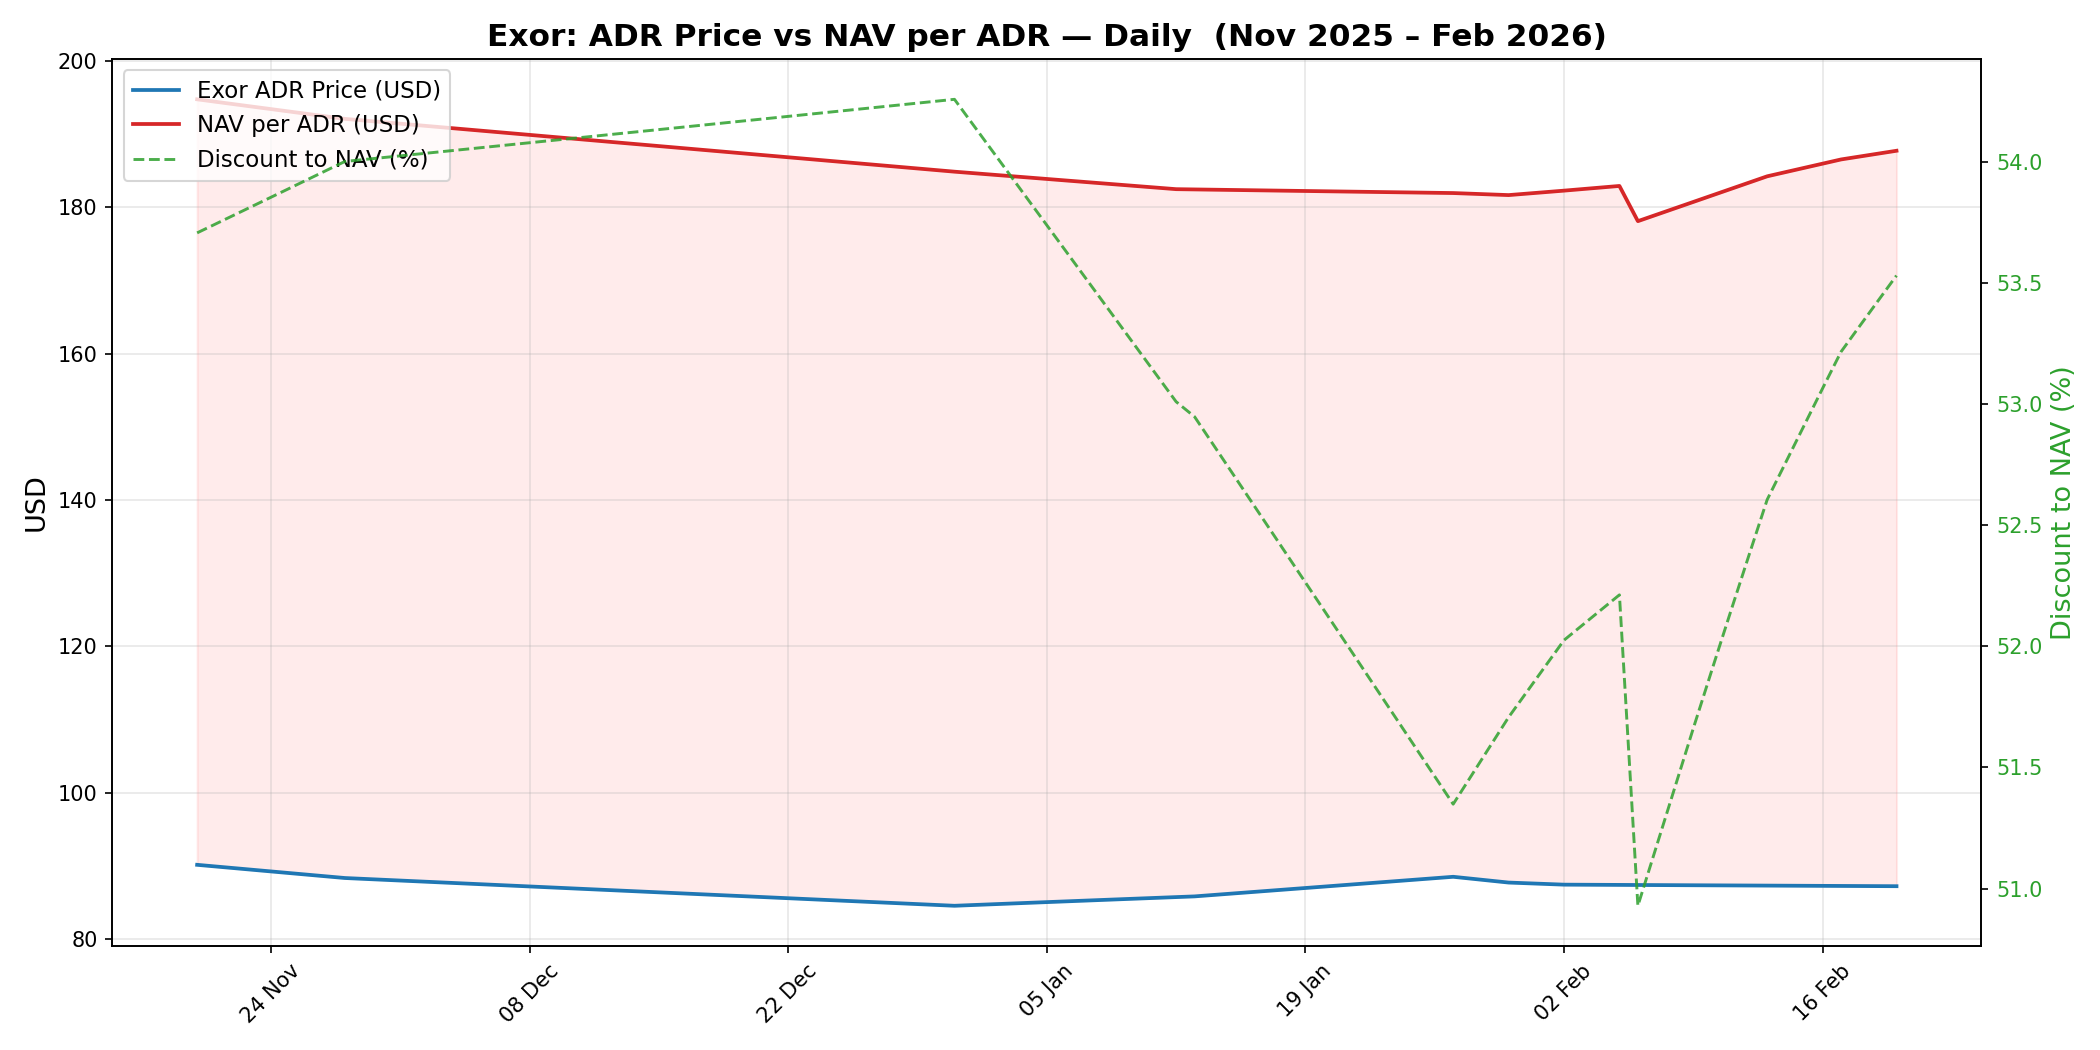
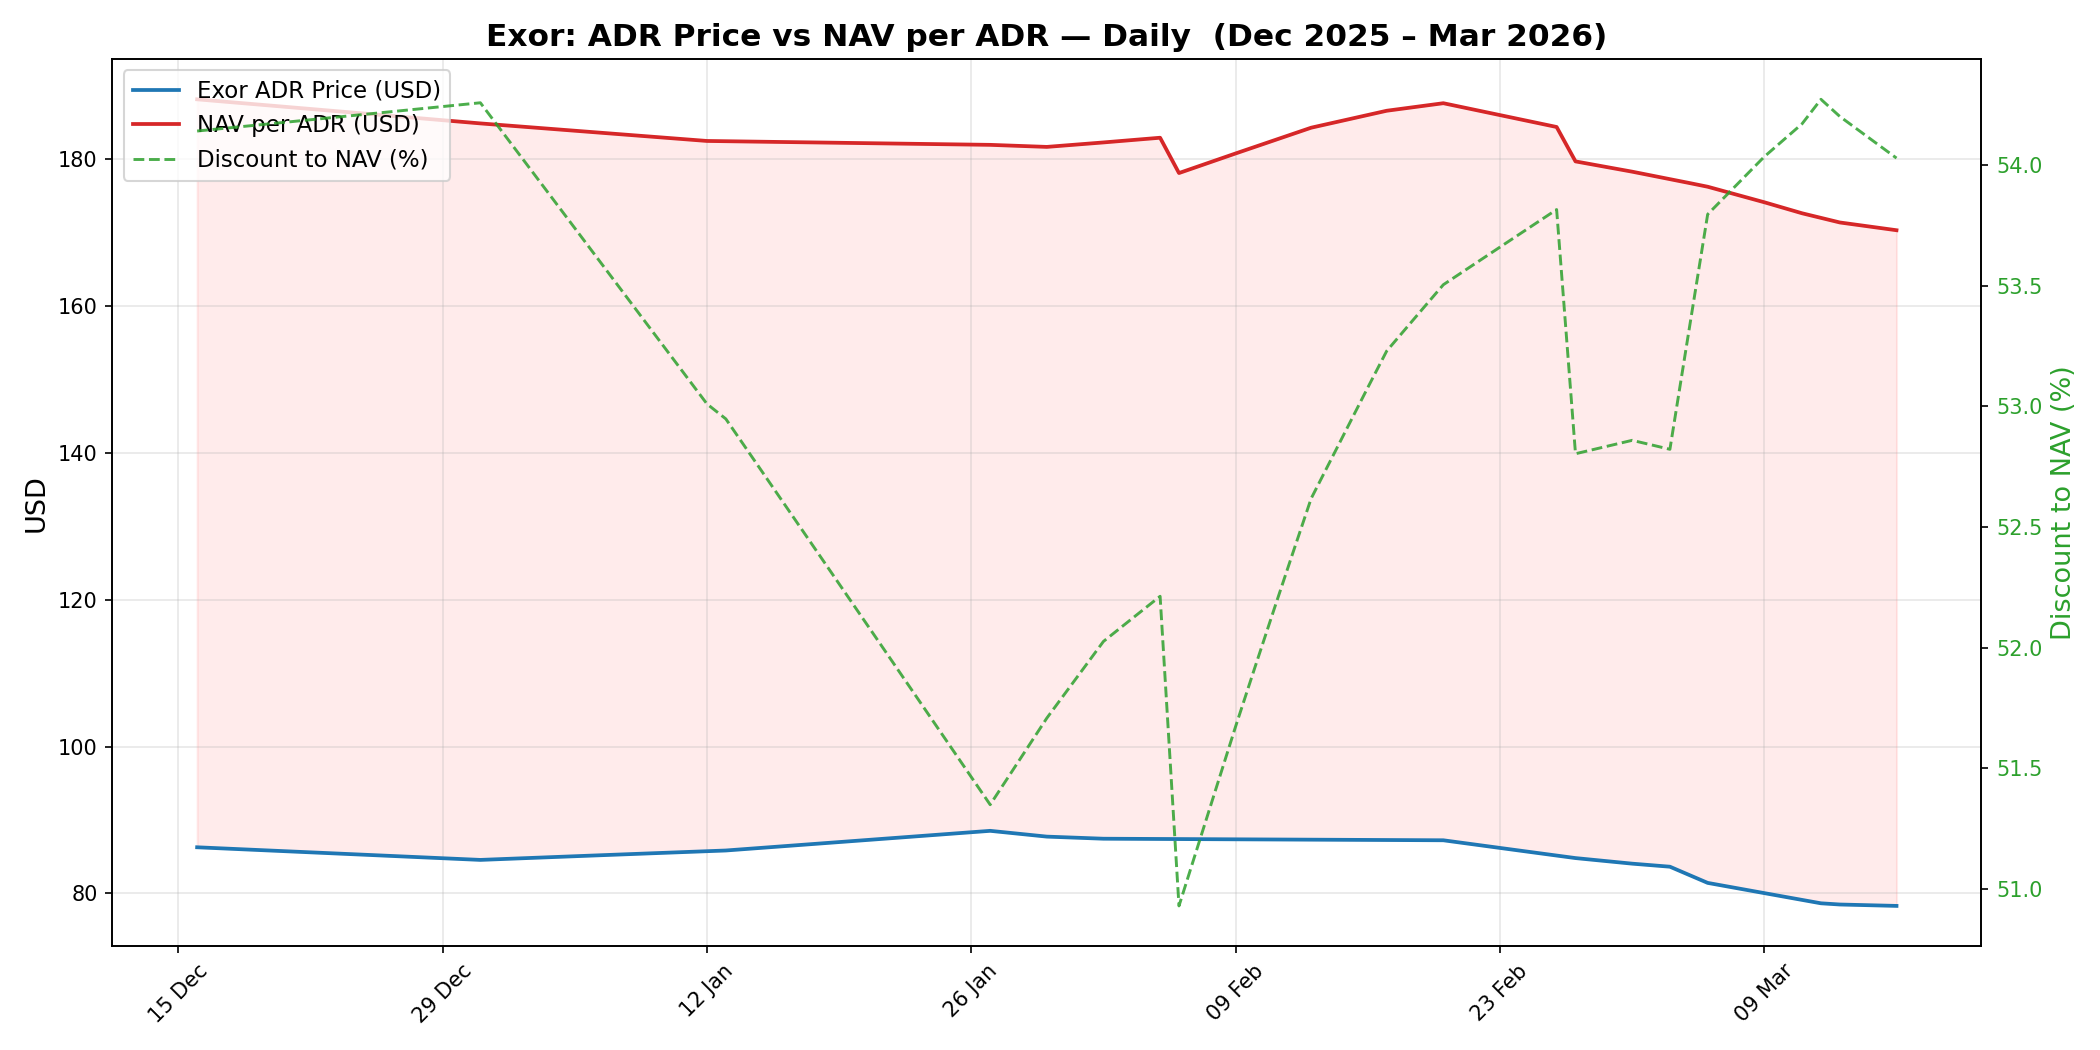
Update all charts with data through March 16, 2026
Extended price series for all holdings (RACE, STLA, PHG, CNH, IVG.MI,
JUVE.MI, EXO.AS, EUR/USD) from Feb 20 to Mar 16, 2026. Key moves:
- STLA crashed ~24% on Feb 27 after $26B write-down, now at $6.50
- RACE declined to ~$332, EXO.AS fell to €68.20
- EUR/USD weakened to 1.148
- Discount to NAV widened to ~54%

https://claude.ai/code/session_011nmT8G6RcPr3Kt8iyNHA7R

diff --git a/exor_holdings_chart.py b/exor_holdings_chart.py
@@ -90,7 +90,8 @@ else:
         ("2025-06-30", 500.0), ("2025-07-25", 518.0), ("2025-07-31", 510.0),
         ("2025-08-29", 478.0), ("2025-09-30", 458.0), ("2025-10-31", 418.0),
         ("2025-11-28", 388.0), ("2025-12-31", 348.0), ("2026-01-30", 335.0),
-        ("2026-02-20", 375.0),
+        ("2026-02-20", 375.0), ("2026-02-28", 360.0), ("2026-03-06", 345.0),
+        ("2026-03-13", 334.0), ("2026-03-16", 332.0),
     ]
 
     # ── STLA (Stellantis) — NYSE, USD ───────────────────────────────────
@@ -105,7 +106,8 @@ else:
         ("2025-08-29", 12.80), ("2025-09-30", 13.00), ("2025-10-31", 13.50),
         ("2025-11-28", 14.00), ("2025-12-31", 14.20), ("2026-01-30", 10.80),
         ("2026-02-05", 9.54),  ("2026-02-06", 7.03),  ("2026-02-13", 7.75),
-        ("2026-02-20", 7.51),
+        ("2026-02-20", 7.51),  ("2026-02-26", 7.80),  ("2026-02-27", 5.95),
+        ("2026-03-06", 6.80),  ("2026-03-13", 6.50),  ("2026-03-16", 6.50),
     ]
 
     # ── PHG (Philips) — NYSE, USD ───────────────────────────────────────
@@ -118,7 +120,8 @@ else:
         ("2025-05-30", 27.00), ("2025-06-30", 28.50), ("2025-07-31", 30.50),
         ("2025-08-29", 28.50), ("2025-09-30", 26.50), ("2025-10-31", 24.00),
         ("2025-11-28", 22.00), ("2025-12-31", 23.10), ("2026-01-30", 27.50),
-        ("2026-02-17", 31.17),
+        ("2026-02-17", 31.17), ("2026-02-28", 30.50), ("2026-03-09", 29.40),
+        ("2026-03-11", 28.80), ("2026-03-16", 28.00),
     ]
 
     # ── CNH (CNH Industrial) — NYSE, USD ────────────────────────────────
@@ -131,7 +134,8 @@ else:
         ("2025-05-30", 10.50), ("2025-06-30", 11.20), ("2025-07-31", 11.80),
         ("2025-08-29", 12.00), ("2025-09-30", 12.20), ("2025-10-31", 12.50),
         ("2025-11-28", 11.00), ("2025-12-31", 10.50), ("2026-01-12", 10.26),
-        ("2026-02-20", 13.05),
+        ("2026-02-20", 13.05), ("2026-02-28", 12.00), ("2026-03-09", 11.00),
+        ("2026-03-16", 10.65),
     ]
 
     # ── IVG.MI (Iveco Group) — Milan, EUR ───────────────────────────────
@@ -144,7 +148,8 @@ else:
         ("2025-05-27", 20.39), ("2025-06-30", 18.50), ("2025-07-31", 18.20),
         ("2025-08-29", 17.50), ("2025-09-30", 18.00), ("2025-10-31", 18.50),
         ("2025-11-28", 18.00), ("2025-12-31", 17.50), ("2026-01-30", 18.50),
-        ("2026-02-08", 18.95),
+        ("2026-02-08", 18.95), ("2026-02-28", 19.00), ("2026-03-05", 19.08),
+        ("2026-03-09", 19.03), ("2026-03-16", 19.00),
     ]
 
     # ── JUVE.MI (Juventus FC) — Milan, EUR ──────────────────────────────
@@ -157,7 +162,8 @@ else:
         ("2025-05-30", 3.45), ("2025-06-30", 3.56), ("2025-07-31", 3.35),
         ("2025-08-29", 3.10), ("2025-09-23", 2.82), ("2025-10-31", 2.60),
         ("2025-11-28", 2.50), ("2025-12-31", 2.40), ("2026-01-30", 2.35),
-        ("2026-02-20", 2.29),
+        ("2026-02-20", 2.29),  ("2026-02-28", 2.30),  ("2026-03-09", 2.30),
+        ("2026-03-16", 2.30),
     ]
 
     # ── EXO.AS (Exor N.V.) — Amsterdam Euronext, EUR ────────────────────
@@ -170,7 +176,9 @@ else:
         ("2025-05-30", 93.00), ("2025-06-30", 96.00), ("2025-07-31", 98.00),
         ("2025-08-29", 93.50), ("2025-09-30", 88.00), ("2025-10-31", 82.00),
         ("2025-11-28", 77.50), ("2025-12-31", 74.50), ("2026-01-13", 73.60),
-        ("2026-01-30", 73.80), ("2026-02-20", 74.05),
+        ("2026-01-30", 73.80), ("2026-02-20", 74.05), ("2026-02-28", 72.50),
+        ("2026-03-04", 72.20), ("2026-03-06", 70.50), ("2026-03-12", 68.50),
+        ("2026-03-16", 68.20),
     ]
 
     # ── EUR/USD exchange rate ───────────────────────────────────────────
@@ -187,7 +195,8 @@ else:
         ("2025-07-31", 1.148), ("2025-08-29", 1.107), ("2025-09-16", 1.187),
         ("2025-09-30", 1.175), ("2025-10-31", 1.155), ("2025-11-28", 1.140),
         ("2025-12-31", 1.135), ("2026-01-27", 1.200), ("2026-01-31", 1.185),
-        ("2026-02-20", 1.178),
+        ("2026-02-20", 1.178), ("2026-02-28", 1.165), ("2026-03-06", 1.155),
+        ("2026-03-13", 1.147), ("2026-03-16", 1.148),
     ]
 
     # ── Build daily-interpolated series ──────────────────────────────────
@@ -201,7 +210,7 @@ else:
     eurusd = _monthly_to_daily(eurusd_data)
 
     # Align all series to a common date index (business days only)
-    idx = pd.bdate_range(start="2024-02-21", end="2026-02-20")
+    idx = pd.bdate_range(start="2024-02-21", end="2026-03-16")
     race   = race.reindex(idx).interpolate()
     stla   = stla.reindex(idx).interpolate()
     phg    = phg.reindex(idx).interpolate()
@@ -266,7 +275,7 @@ ax1.fill_between(df.index, df["Exor ADR Price"], df["NAV per ADR"],
                  alpha=0.08, color="red")
 
 ax1.set_ylabel("USD", fontsize=13)
-ax1.set_title("Exor: ADR Price vs NAV per ADR  (Feb 2024 \u2013 Feb 2026)",
+ax1.set_title("Exor: ADR Price vs NAV per ADR  (Feb 2024 \u2013 Mar 2026)",
               fontsize=15, fontweight="bold")
 ax1.grid(True, alpha=0.3)
 ax1.xaxis.set_major_formatter(mdates.DateFormatter("%b %Y"))
@@ -312,7 +321,7 @@ ax1w.fill_between(df_weekly.index, df_weekly["Exor ADR Price"], df_weekly["NAV p
                   alpha=0.08, color="red")
 
 ax1w.set_ylabel("USD", fontsize=13)
-ax1w.set_title("Exor: ADR Price vs NAV per ADR \u2014 Weekly  (Feb 2025 \u2013 Feb 2026)",
+ax1w.set_title("Exor: ADR Price vs NAV per ADR \u2014 Weekly  (Mar 2025 \u2013 Mar 2026)",
                fontsize=15, fontweight="bold")
 ax1w.grid(True, alpha=0.3)
 ax1w.xaxis.set_major_formatter(mdates.DateFormatter("%b %Y"))
@@ -356,7 +365,7 @@ ax1d.fill_between(df_3m.index, df_3m["Exor ADR Price"], df_3m["NAV per ADR"],
                   alpha=0.08, color="red")
 
 ax1d.set_ylabel("USD", fontsize=13)
-ax1d.set_title("Exor: ADR Price vs NAV per ADR \u2014 Daily  (Nov 2025 \u2013 Feb 2026)",
+ax1d.set_title("Exor: ADR Price vs NAV per ADR \u2014 Daily  (Dec 2025 \u2013 Mar 2026)",
                fontsize=15, fontweight="bold")
 ax1d.grid(True, alpha=0.3)
 ax1d.xaxis.set_major_formatter(mdates.DateFormatter("%d %b"))
